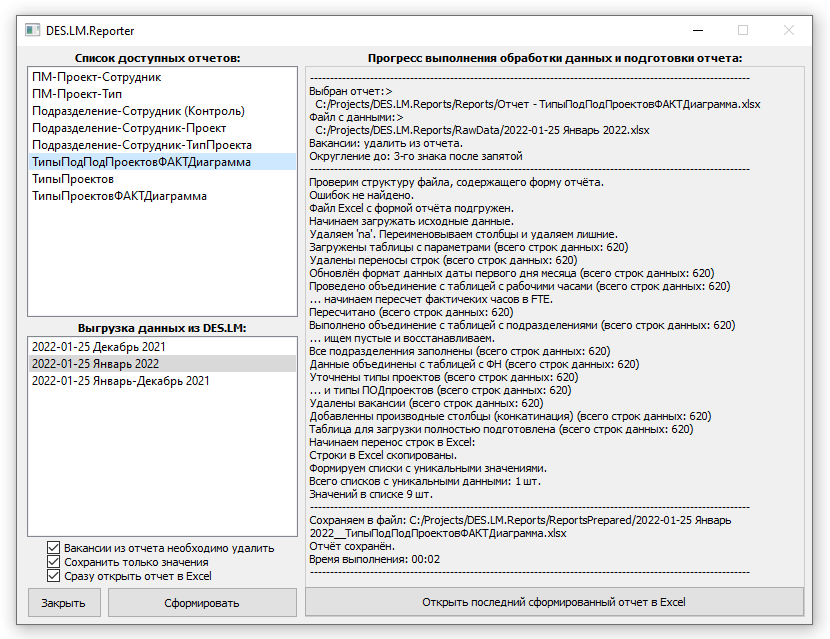
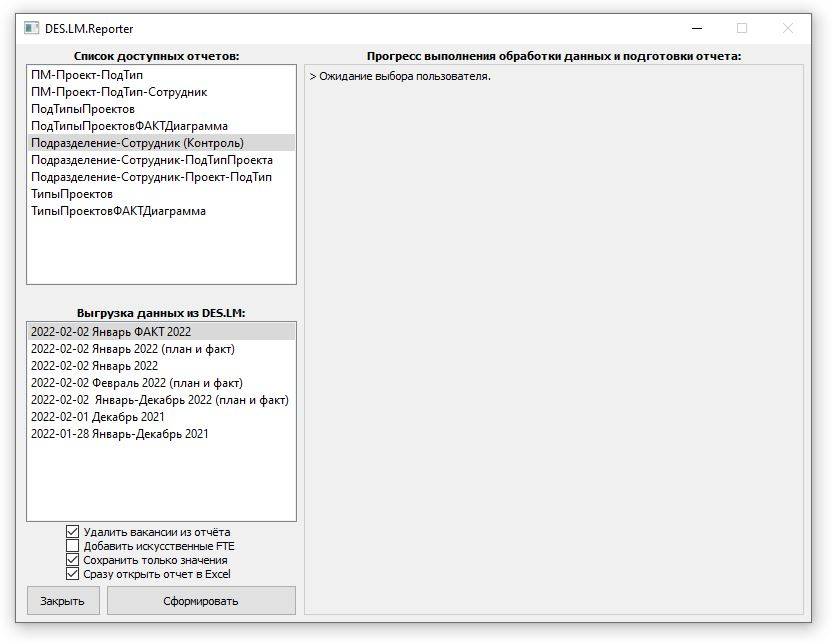
Added functionality that allows you to control the completeness of accounting for the actual FTE
The reporting form has been changed.
Connects information about additional FTE.
CheckBox placed on the form.

Default parameters moved to the module "constants"

Changed picture in README.md

Changed region(s): [[0.0, 0.0, 0.994, 0.9812]]

diff --git a/mainform.py b/mainform.py
@@ -33,7 +33,7 @@ class Ui_MainWindow(object):
         self.centralwidget.setObjectName("centralwidget")
         self.checkBoxDeleteVac = QtWidgets.QCheckBox(self.centralwidget)
         self.checkBoxDeleteVac.setEnabled(True)
-        self.checkBoxDeleteVac.setGeometry(QtCore.QRect(30, 493, 251, 17))
+        self.checkBoxDeleteVac.setGeometry(QtCore.QRect(50, 479, 221, 17))
         sizePolicy = QtWidgets.QSizePolicy(QtWidgets.QSizePolicy.Minimum, QtWidgets.QSizePolicy.Fixed)
         sizePolicy.setHorizontalStretch(0)
         sizePolicy.setVerticalStretch(0)
@@ -52,7 +52,7 @@ class Ui_MainWindow(object):
         self.pushButtonDoIt.setFlat(False)
         self.pushButtonDoIt.setObjectName("pushButtonDoIt")
         self.listView = QtWidgets.QListView(self.centralwidget)
-        self.listView.setGeometry(QtCore.QRect(10, 20, 271, 251))
+        self.listView.setGeometry(QtCore.QRect(10, 20, 271, 221))
         self.listView.setEditTriggers(QtWidgets.QAbstractItemView.NoEditTriggers)
         self.listView.setObjectName("listView")
         self.label = QtWidgets.QLabel(self.centralwidget)
@@ -67,11 +67,11 @@ class Ui_MainWindow(object):
         self.label.setWordWrap(False)
         self.label.setObjectName("label")
         self.listViewRawData = QtWidgets.QListView(self.centralwidget)
-        self.listViewRawData.setGeometry(QtCore.QRect(10, 290, 271, 201))
+        self.listViewRawData.setGeometry(QtCore.QRect(10, 277, 271, 201))
         self.listViewRawData.setEditTriggers(QtWidgets.QAbstractItemView.NoEditTriggers)
         self.listViewRawData.setObjectName("listViewRawData")
         self.label_2 = QtWidgets.QLabel(self.centralwidget)
-        self.label_2.setGeometry(QtCore.QRect(10, 273, 271, 16))
+        self.label_2.setGeometry(QtCore.QRect(10, 260, 271, 16))
         font = QtGui.QFont()
         font.setBold(True)
         font.setWeight(75)
@@ -99,7 +99,7 @@ class Ui_MainWindow(object):
         self.label_3.setObjectName("label_3")
         self.checkBoxOpenExcel = QtWidgets.QCheckBox(self.centralwidget)
         self.checkBoxOpenExcel.setEnabled(True)
-        self.checkBoxOpenExcel.setGeometry(QtCore.QRect(30, 521, 251, 17))
+        self.checkBoxOpenExcel.setGeometry(QtCore.QRect(50, 521, 221, 17))
         sizePolicy = QtWidgets.QSizePolicy(QtWidgets.QSizePolicy.Minimum, QtWidgets.QSizePolicy.Fixed)
         sizePolicy.setHorizontalStretch(0)
         sizePolicy.setVerticalStretch(0)
@@ -117,7 +117,7 @@ class Ui_MainWindow(object):
         self.pushButtonOpenLastReport.setObjectName("pushButtonOpenLastReport")
         self.checkBoxSaveWithOutFotmulas = QtWidgets.QCheckBox(self.centralwidget)
         self.checkBoxSaveWithOutFotmulas.setEnabled(True)
-        self.checkBoxSaveWithOutFotmulas.setGeometry(QtCore.QRect(30, 507, 251, 17))
+        self.checkBoxSaveWithOutFotmulas.setGeometry(QtCore.QRect(50, 507, 221, 17))
         sizePolicy = QtWidgets.QSizePolicy(QtWidgets.QSizePolicy.Minimum, QtWidgets.QSizePolicy.Fixed)
         sizePolicy.setHorizontalStretch(0)
         sizePolicy.setVerticalStretch(0)
@@ -126,6 +126,17 @@ class Ui_MainWindow(object):
         self.checkBoxSaveWithOutFotmulas.setChecked(True)
         self.checkBoxSaveWithOutFotmulas.setAutoRepeat(False)
         self.checkBoxSaveWithOutFotmulas.setObjectName("checkBoxSaveWithOutFotmulas")
+        self.checkBoxAddVFTE = QtWidgets.QCheckBox(self.centralwidget)
+        self.checkBoxAddVFTE.setEnabled(True)
+        self.checkBoxAddVFTE.setGeometry(QtCore.QRect(50, 493, 221, 17))
+        sizePolicy = QtWidgets.QSizePolicy(QtWidgets.QSizePolicy.Minimum, QtWidgets.QSizePolicy.Fixed)
+        sizePolicy.setHorizontalStretch(0)
+        sizePolicy.setVerticalStretch(0)
+        sizePolicy.setHeightForWidth(self.checkBoxAddVFTE.sizePolicy().hasHeightForWidth())
+        self.checkBoxAddVFTE.setSizePolicy(sizePolicy)
+        self.checkBoxAddVFTE.setChecked(True)
+        self.checkBoxAddVFTE.setAutoRepeat(False)
+        self.checkBoxAddVFTE.setObjectName("checkBoxAddVFTE")
         MainWindow.setCentralWidget(self.centralwidget)
 
         self.retranslateUi(MainWindow)
@@ -139,11 +150,12 @@ class Ui_MainWindow(object):
         self.pushButtonDoIt.setText(_translate("MainWindow", "Сформировать"))
         self.label.setText(_translate("MainWindow", "Список доступных отчетов:"))
         self.label_2.setText(_translate("MainWindow", "Выгрузка данных из DES.LM:"))
-        self.plainTextEdit.setPlainText(_translate("MainWindow", ">>   Ожидание выбора пользователя."))
+        self.plainTextEdit.setPlainText(_translate("MainWindow", "> Ожидание выбора пользователя."))
         self.label_3.setText(_translate("MainWindow", "Прогресс выполнения обработки данных и подготовки отчета:"))
         self.checkBoxOpenExcel.setText(_translate("MainWindow", "Сразу открыть отчет в Excel"))
         self.pushButtonOpenLastReport.setText(_translate("MainWindow", "Открыть последний сформированный отчет в Excel"))
         self.checkBoxSaveWithOutFotmulas.setText(_translate("MainWindow", "Сохранить только значения"))
+        self.checkBoxAddVFTE.setText(_translate("MainWindow", "Добавить искусственные FTE"))
         
     # ------------------------------------------------------------------- #
 
@@ -205,6 +217,7 @@ class Ui_MainWindow(object):
     
     def on_click_CheckBoxes(self):
         save_param(myconstants.PARAMETER_SAVED_VALUE_DELETE_VAC, self.checkBoxDeleteVac.isChecked())
+        save_param(myconstants.PARAMETER_SAVED_VALUE_ADD_VFTE, self.checkBoxAddVFTE.isChecked())
         save_param(myconstants.PARAMETER_SAVED_VALUE_SAVE_WITHOUT_FORMULAS, self.checkBoxSaveWithOutFotmulas.isChecked())
         save_param(myconstants.PARAMETER_SAVED_VALUE_OPEN_IN_EXCEL, self.checkBoxOpenExcel.isChecked())
 
@@ -217,15 +230,23 @@ class Ui_MainWindow(object):
 
         self.pushButtonDoIt.clicked.connect(self.on_click_DoIt)
         self.pushButtonClose.clicked.connect(self.on_click_Close)
+        
         self.checkBoxDeleteVac.clicked.connect(self.on_click_CheckBoxes)
+        self.checkBoxAddVFTE.clicked.connect(self.on_click_CheckBoxes)
         self.checkBoxOpenExcel.clicked.connect(self.on_click_CheckBoxes)
         self.checkBoxSaveWithOutFotmulas.clicked.connect(self.on_click_CheckBoxes)
+        
         self.listView.doubleClicked.connect(self.on_dblClick_Reports_List)
         self.listViewRawData.doubleClicked.connect(self.on_dblClick_Reports_List)
-        
-        self.checkBoxDeleteVac.setChecked(load_param(myconstants.PARAMETER_SAVED_VALUE_DELETE_VAC, True))
-        self.checkBoxSaveWithOutFotmulas.setChecked(load_param(myconstants.PARAMETER_SAVED_VALUE_SAVE_WITHOUT_FORMULAS, False))
-        self.checkBoxOpenExcel.setChecked(load_param(myconstants.PARAMETER_SAVED_VALUE_OPEN_IN_EXCEL, False))
+
+        self.checkBoxDeleteVac.setChecked(\
+            load_param(myconstants.PARAMETER_SAVED_VALUE_DELETE_VAC, myconstants.PARAMETER_SAVED_VALUE_DELETE_VAC_DEFVALUE))
+        self.checkBoxAddVFTE.setChecked(\
+            load_param(myconstants.PARAMETER_SAVED_VALUE_ADD_VFTE, myconstants.PARAMETER_SAVED_VALUE_ADD_VFTE_DEFVALUE))
+        self.checkBoxSaveWithOutFotmulas.setChecked(\
+            load_param(myconstants.PARAMETER_SAVED_VALUE_SAVE_WITHOUT_FORMULAS, myconstants.PARAMETER_SAVED_VALUE_SAVE_WITHOUT_FORMULAS_DEFVALUE))
+        self.checkBoxOpenExcel.setChecked(\
+            load_param(myconstants.PARAMETER_SAVED_VALUE_OPEN_IN_EXCEL, myconstants.PARAMETER_SAVED_VALUE_OPEN_IN_EXCEL_DEFVALUE))
         
         self.pushButtonOpenLastReport.clicked.connect(self.on_click_OpenLastReport)
         self.status_text = ""

diff --git a/reportcreater.py b/reportcreater.py
@@ -56,7 +56,18 @@ def get_parameter_value(paramname):
 def load_raw_data(raw_file, ui_handle):
     # Загружаем сырые данные
     ui_handle.set_status("Начинаем загружать исходные данные.")
-    df = pd.read_excel(raw_file, engine='openpyxl')
+    if load_param(myconstants.PARAMETER_SAVED_VALUE_ADD_VFTE, myconstants.PARAMETER_SAVED_VALUE_ADD_VFTE_DEFVALUE):
+        virtual_fte_file = \
+                os.path.join( \
+                    os.path.join(os.getcwd(), get_parameter_value(myconstants.RAW_DATA_SECTION_NAME)), \
+                        myconstants.VIRTUAL_FTE_FILE_NAME)
+        df = pd.concat(\
+                        [pd.read_excel(raw_file, engine='openpyxl'), pd.read_excel(virtual_fte_file, engine='openpyxl')],\
+                        sort=False, axis=0, ignore_index=True\
+                        )
+    else:
+        df = pd.read_excel(raw_file, engine='openpyxl')
+
     ui_handle.set_status("Удаляем 'na'. Переименовываем столбцы и удаляем лишние.")
     df.dropna(how='all', inplace=True)
     df.rename(columns=myconstants.RAW_DATA_COLUMNS, inplace=True)
@@ -239,9 +250,12 @@ def send_df_2_xls(report_file_name, raw_file_name, ui_handle):
         return
     
     start_prog_time = time.time()
-    p_delete_vacation = load_param(myconstants.PARAMETER_SAVED_VALUE_DELETE_VAC, True)
-    p_save_without_formulas = load_param(myconstants.PARAMETER_SAVED_VALUE_SAVE_WITHOUT_FORMULAS, False)
-    p_open_in_excel = load_param(myconstants.PARAMETER_SAVED_VALUE_OPEN_IN_EXCEL, False)
+    p_delete_vacation =\
+        load_param(myconstants.PARAMETER_SAVED_VALUE_DELETE_VAC, myconstants.PARAMETER_SAVED_VALUE_DELETE_VAC_DEFVALUE)
+    p_save_without_formulas =\
+        load_param(myconstants.PARAMETER_SAVED_VALUE_SAVE_WITHOUT_FORMULAS, myconstants.PARAMETER_SAVED_VALUE_SAVE_WITHOUT_FORMULAS_DEFVALUE)
+    p_open_in_excel =\
+        load_param(myconstants.PARAMETER_SAVED_VALUE_OPEN_IN_EXCEL, myconstants.PARAMETER_SAVED_VALUE_OPEN_IN_EXCEL_DEFVALUE)
     
     save_param(myconstants.PARAMETER_SAVED_SELECTED_REPORT,ui_handle.reports_list.index(report_file_name) + 1)
     
@@ -465,7 +479,7 @@ def send_df_2_xls(report_file_name, raw_file_name, ui_handle):
 
     if p_open_in_excel:
         # Скроем вспомогательные листы
-        wb.Sheets[myconstants.RAW_DATA_SHEET_NAME]. Visible = False
+        #wb.Sheets[myconstants.RAW_DATA_SHEET_NAME]. Visible = False
         wb.Sheets[myconstants.UNIQE_LISTS_SHEET_NAME]. Visible = False
         wb.Sheets[myconstants.SETTINGS_SHEET_NAME]. Visible = False
             

diff --git a/myconstants.py b/myconstants.py
@@ -1,3 +1,6 @@
+from pickle import TRUE
+
+
 RAW_DATA_COLUMNS = {
                     "Дата" : "FDate",
                     "Функциональное направление" : "FNRaw",
@@ -74,6 +77,7 @@ REPORTS_PREPARED_SECTION_NAME = "ReportsPrepared"
 MONTH_WORKING_HOURS_TABLE = "WHours.xlsx"
 DIVISIONS_NAMES_TABLE = "ShortDivisionNames.xlsx"
 FNS_NAMES_TABLE = "ShortFNNames.xlsx"
+VIRTUAL_FTE_FILE_NAME = "Искусственные FTE.xlsx"
 
 PROJECTS_TYPES_DESCR = "ProjectsTypesDescriptions.xlsx"
 PROJECTS_SUB_TYPES_TABLE = "ProjectsSubTypes.xlsx"
@@ -93,9 +97,17 @@ SETTINGS_SHEET_NAME = "Настройки"
 VACANCY_NAME_TEXT = "Вакансия"
 TEXT_LINES_SEPARATOR = "-" * 110
 PARAMETER_FILENAME_OF_LAST_REPORT = "Последний сформированный отчёт"
+
 PARAMETER_SAVED_VALUE_DELETE_VAC = "Удалять ли вакансии из отчёта?"
-PARAMETER_SAVED_VALUE_OPEN_IN_EXCEL = "Открывать ли сформированный отчет в Excel?"
+PARAMETER_SAVED_VALUE_ADD_VFTE = "Дабавить к списку сырых данных искусственные FTE?"
 PARAMETER_SAVED_VALUE_SAVE_WITHOUT_FORMULAS = "Сохранять отчёт без формул?"
+PARAMETER_SAVED_VALUE_OPEN_IN_EXCEL = "Открывать ли сформированный отчет в Excel?"
+
+PARAMETER_SAVED_VALUE_DELETE_VAC_DEFVALUE = True
+PARAMETER_SAVED_VALUE_ADD_VFTE_DEFVALUE = False
+PARAMETER_SAVED_VALUE_SAVE_WITHOUT_FORMULAS_DEFVALUE = False
+PARAMETER_SAVED_VALUE_OPEN_IN_EXCEL_DEFVALUE = True
+
 PARAMETER_SAVED_SELECTED_REPORT = "Номер последнего выбранного отчёта"
 PARAMETER_MAX_ROWS_TEST_IN_REPORT = 50000
 EXCEL_MANUAL_CALC = -4135
